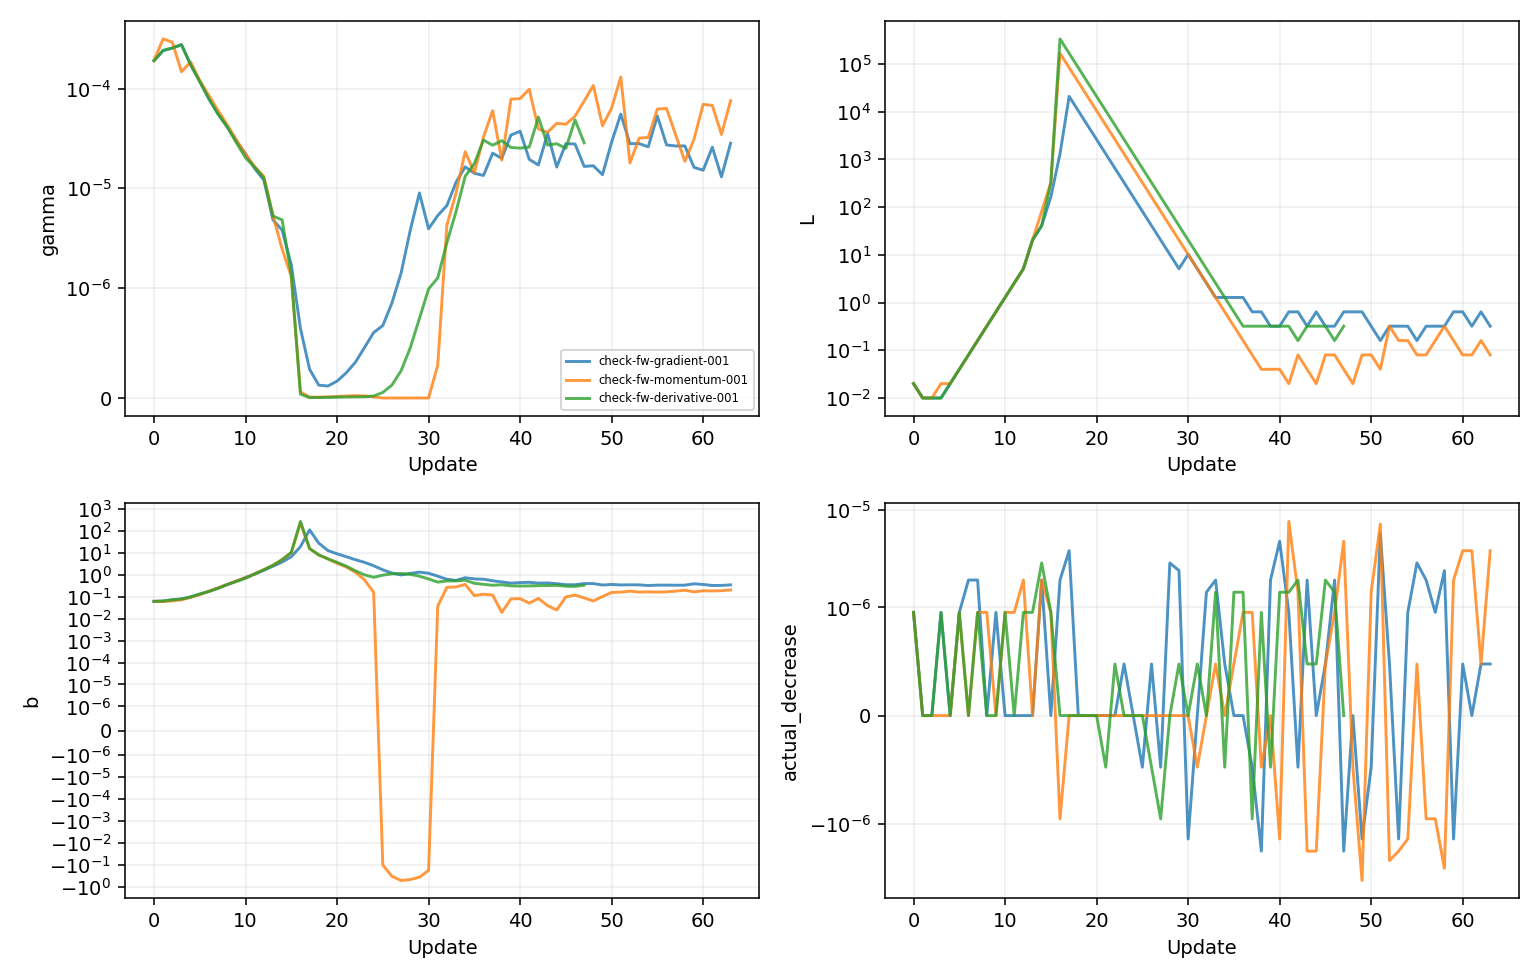
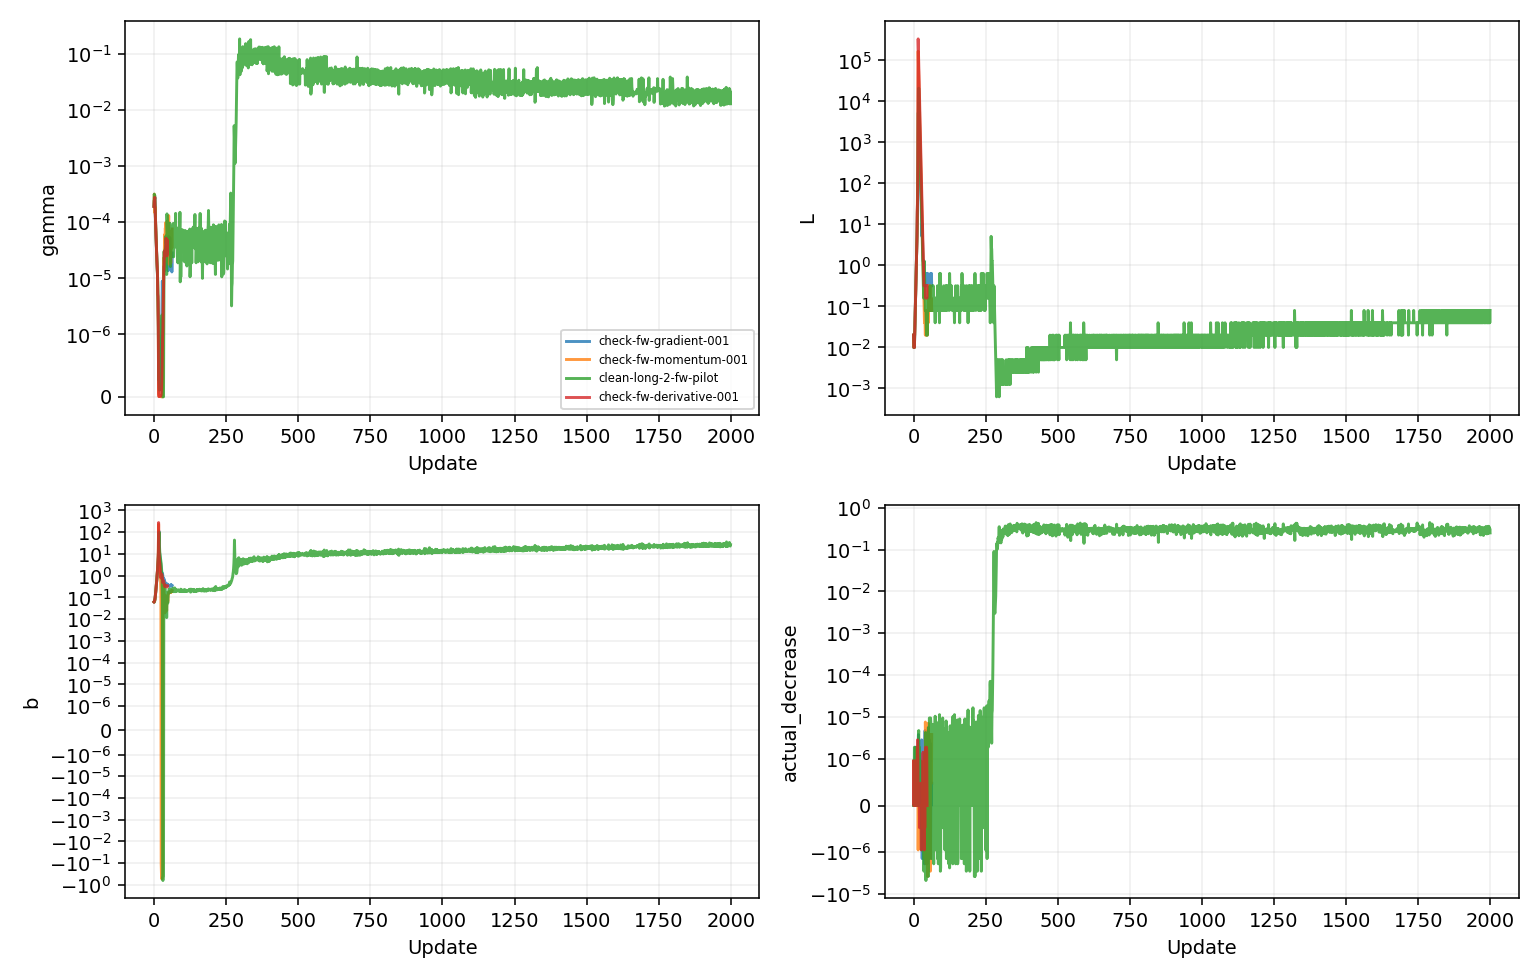
Update live Muon experiment results

diff --git a/research/unnormalized_muon/RESULTS.md b/research/unnormalized_muon/RESULTS.md
@@ -36,6 +36,7 @@ One B300 per job. CE is token cross-entropy (nats); lower is better. Rows with d
 | um-clean-long-0-0-normalized-lr0p04 | Clean Native cooldown | 20000 | 0 | 0.04 | 3.107198 | 0.942041 | — | 743.22 |
 | um-clean-long-0-1-cooldown-lr0p64 | Clean Unnormalized cooldown | 20000 | 0 | 0.64 | 3.168528 | 0.960609 | — | 779.28 |
 | um-clean-long-0-2-constant-lr0p64 | Clean Unnormalized constant | 20000 | 0 | 0.64 | 3.210816 | 0.973451 | — | 737.52 |
+| um-clean-long-2-fw-pilot | Clean FW backtracking momentum Rfactor2 | 2000 | 0 | 0.02 | 4.185817 | 1.268782 | — | 409.98 |
 | um-fw-diagnostic-001 | FW backtracking momentum Rfactor2 | 64 | 0 | 0.02 | 6.469995 | 1.960658 | — | 95.07 |
 | um-fw-diagnostic-002 | FW backtracking momentum Rfactor2 | 64 | 0 | 0.02 | 6.900428 | 2.091122 | — | 117.14 |
 | um-screen-00-0-native-lr0p005 | Native cooldown | 2000 | 0 | 0.005 | 3.734536 | 1.132046 | — | 145.49 |
@@ -48,10 +49,11 @@ One B300 per job. CE is token cross-entropy (nats); lower is better. Rows with d
 | um-screen-02-1-scaled-lr0p002 | Unnormalized cooldown | 2000 | 0 | 0.002 | 4.379024 | 1.327359 | — | 155.31 |
 | um-smoke-001/native | Native cooldown | 64 | 42 | 0.02 | 6.475706 | 1.962373 | — | 101.57 |
 | um-smoke-001/scaled | Unnormalized cooldown | 64 | 42 | 0.002 | 6.492003 | 1.967335 | — | 74.24 |
+| um-wd-grid-0-0-norm-lr0p02 | Clean Native cooldown WD:standard(0.14) | 2000 | 0 | 0.02 | 3.576236 | 1.084133 | — | 164.96 |
 
 Review of um-fw-diagnostic-001: Compiled training f0 compared against functional candidate losses; vanishing-step mismatch2-4e-5 exceeded tolerance, leading to curvature1e186 and45 skipped steps. Replaced by paired functional reference and candidates; retain all645 measured forwards and GPUcost.
 
-Conservative charged/reserved total: 5.4300 / 30 B300 GPU-hours. Includes prior smoke/failed attempts and current maximum-duration reservations. Six-slot central queue; one B300 per run.
+Conservative charged/reserved total: 5.1047 / 30 B300 GPU-hours. Includes prior smoke/failed attempts and current maximum-duration reservations. Six-slot central queue; one B300 per run.
 
 CLEAN geometry disables row equilibration and NorMuon. Original clean runs use zero matrix decay; new WD runs explicitly label standard or cautious decay and their CLI coefficient. Same five Polar Express steps and Frobenius correction; scale by the per-matrix nonnegative FP32 inner product of the native Nesterov input with the NS/Frobenius direction. Shape scaling occurs once outside the scalar. Legacy rows retain production extras and must be compared separately. Constant schedule changes only matrix LR; auxiliary schedules and momentum remain matched.
 

diff --git a/research/unnormalized_muon/DETAILED_EVAL.md b/research/unnormalized_muon/DETAILED_EVAL.md
@@ -18,6 +18,7 @@ CLI lambda = 0.28*(0.04/CLI_eta)*strength matches nominal eta*lambda exposure ac
 
 | Method | Decay | Strength | CLI LR | CLI WD | Updates | Val CE | Nominal Muon exposure range |
 |---|---|---:|---:|---:|---:|---:|---|
+| normalized | standard | 0.25 | 0.02 | 0.14 | 2000 | 3.576236 | 0.40773–0.81545 |
 
 ## FW gap-based step and line search
 
@@ -31,6 +32,7 @@ Backtracking compares a same-path functional reference at gamma=0 with candidate
 | um-check-fw-gradient-001 | 64 | 6.488285 | 64 | 0 | 197 | 22.68 | 0.499329 |
 | um-check-fw-momentum-001 | 64 | 6.470441 | 58 | 6 | 183 | 22.14 | 0.499287 |
 | um-clean-fw-accumcheck-001 | 16 | 9.061382 | — | — | 63 | 15.85 | 0.499600 |
+| um-clean-long-2-fw-pilot | 2000 | 4.185817 | 1996 | 4 | 5995 | 233.55 | 0.586020 |
 
 ### um-check-fw-derivative-001
 
@@ -82,3 +84,20 @@ Oracle: momentum; radius factor: 2. Search state/RNG audit: True. Each extra for
 
 FW timing components (seconds): direction=13.131, reference=4.248, candidates=2.713, auxiliary=0.699.
 Accepted steps with measured minibatch increase: 14; acceptance has relative BF16-path numerical slack 1e-6. Reference/candidate forwards and all line-search retries are included in training time and total process time.
+
+### um-clean-long-2-fw-pilot
+
+Oracle: momentum; radius factor: 2. Search state/RNG audit: True. Each extra forward evaluates the entire effective batch; actual microbatch-forward count: 5995. Extra diagnostic gradient queries: 0, diagnostic seconds: 0.000.
+
+| Quantity | Min | P25 | Median | P75 | Max |
+|---|---:|---:|---:|---:|---:|
+| gamma | 0 | 0.019065 | 0.0284537 | 0.045194 | 0.185085 |
+| L | 0.000625 | 0.01 | 0.02 | 0.04 | 20971.5 |
+| b | -0.623421 | 8.85879 | 13.5343 | 19.285 | 98.3482 |
+| v | 15277 | 21450.2 | 24840.4 | 26273 | 39826.5 |
+| trials | 0 | 1 | 2 | 3 | 7 |
+| actual_decrease | -4.76837e-06 | 0.244338 | 0.286635 | 0.319971 | 0.439672 |
+| predicted_decrease | 0 | 0.174015 | 0.218605 | 0.267067 | 0.419033 |
+
+FW timing components (seconds): direction=104.832, reference=43.252, candidates=80.372, auxiliary=2.291.
+Accepted steps with measured minibatch increase: 62; acceptance has relative BF16-path numerical slack 1e-6. Reference/candidate forwards and all line-search retries are included in training time and total process time.
